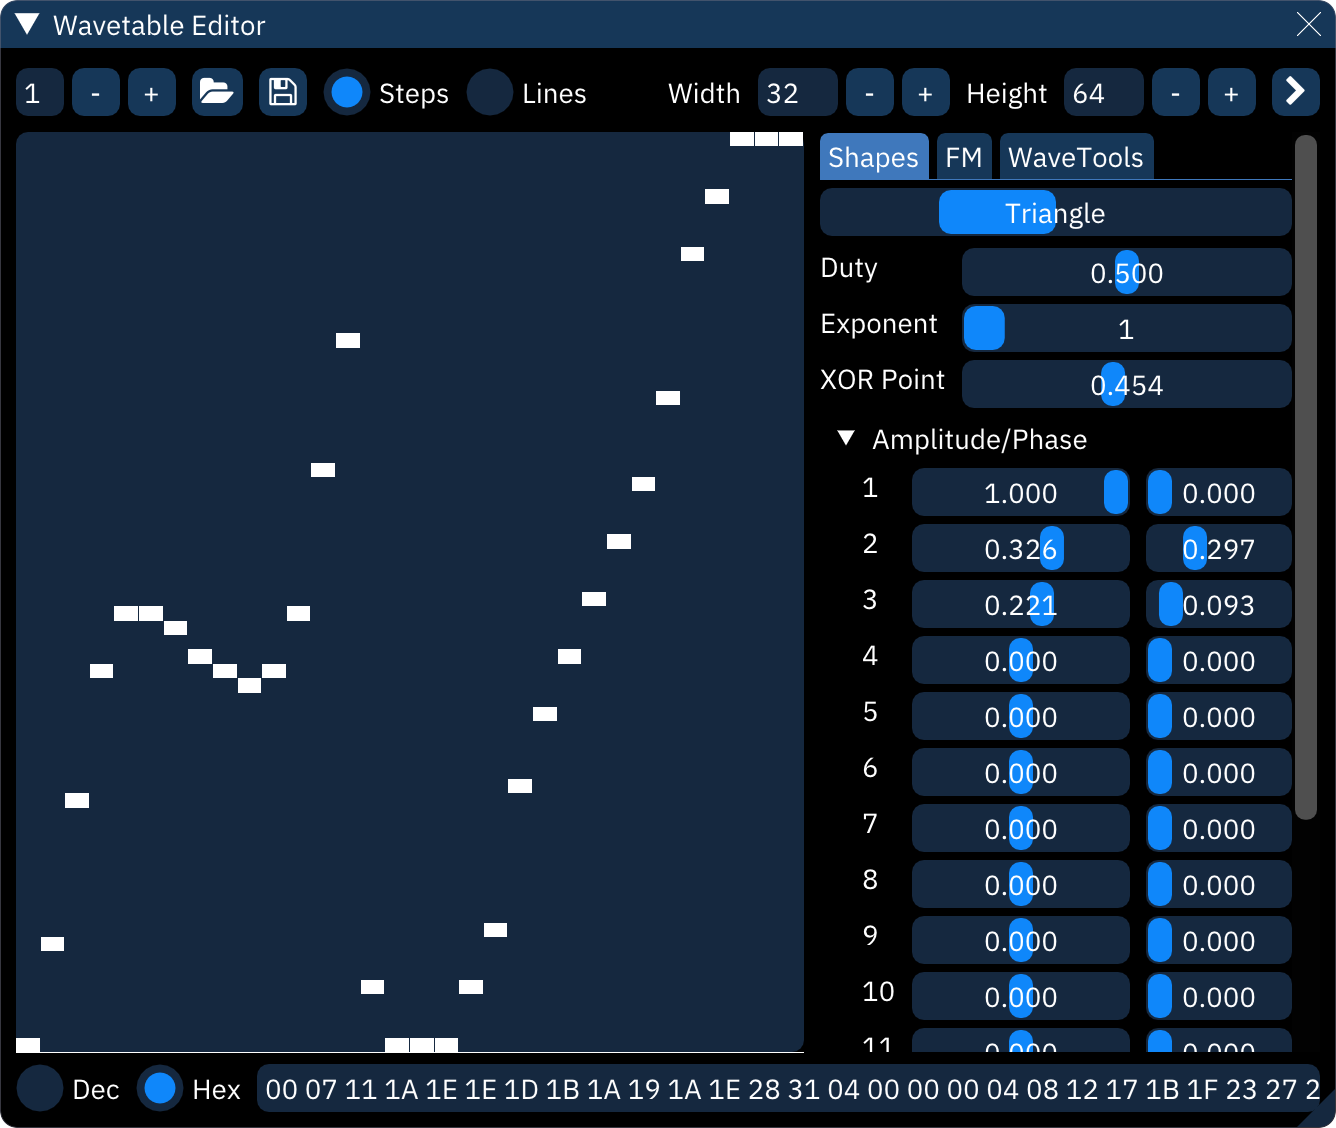
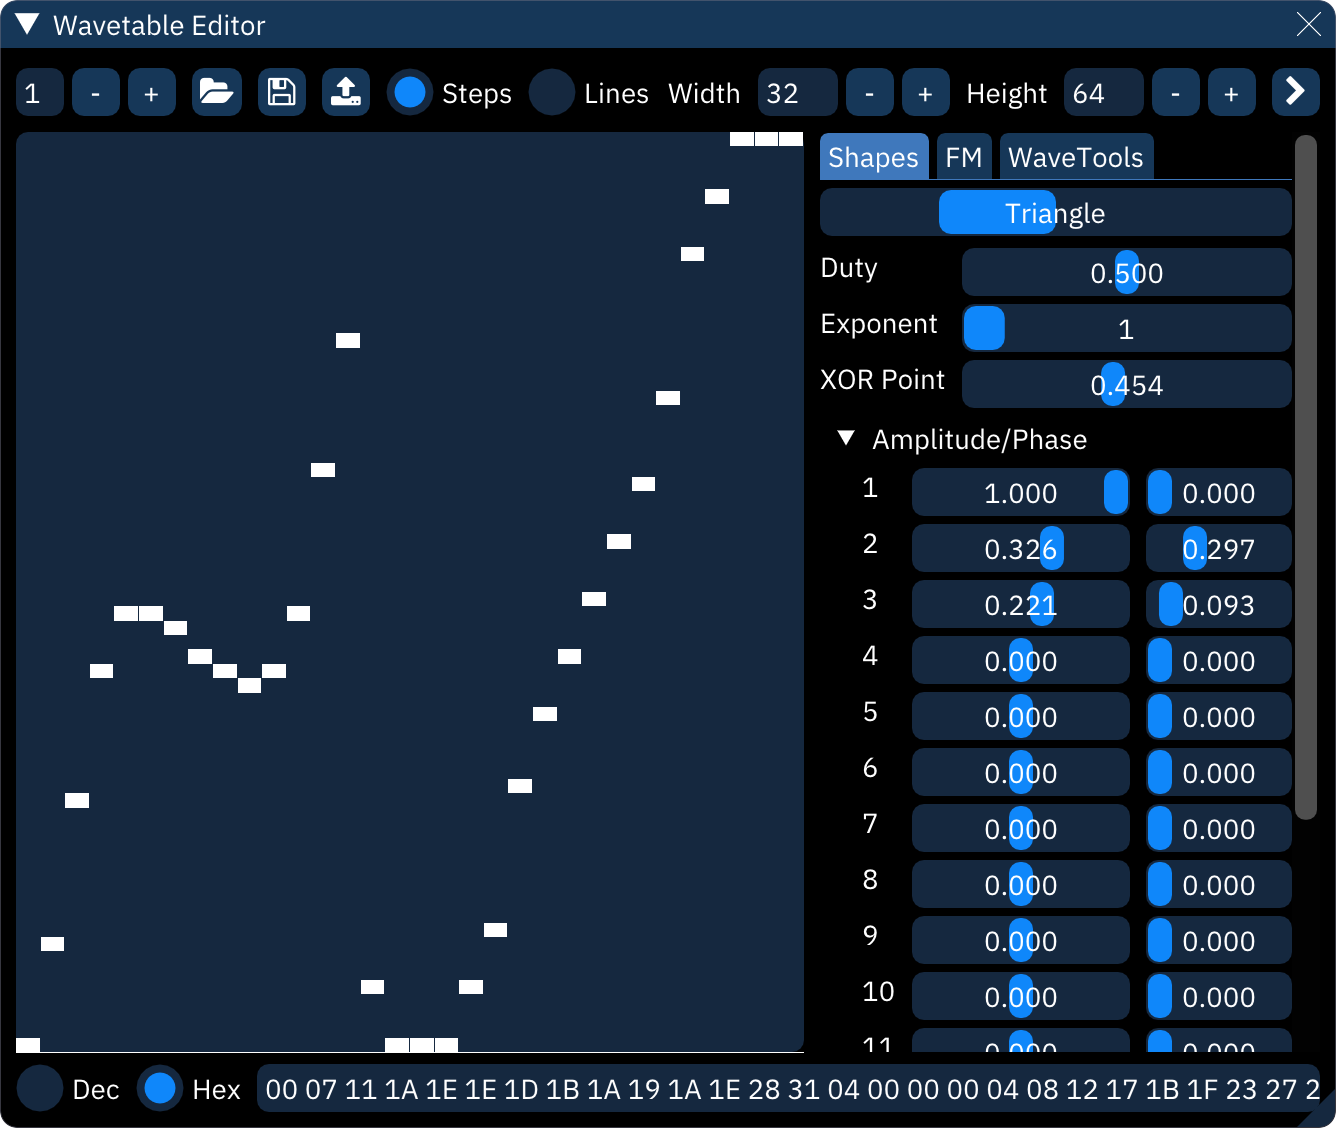
Docs updates.
Several small features and such, including updated graphics as needed.

Changed region(s): [[0.1841, 0.0621, 0.491, 0.1241]]

diff --git a/doc/2-interface/asset-list.md b/doc/2-interface/asset-list.md
@@ -24,6 +24,8 @@ buttons from left to right:
 - **Move down**: same, but downward.
 - **Delete**: deletes the currently selected instrument. pattern data will be adjusted to use the next available instrument in the list.
 
+instruments may be dragged and dropped to reorder them. this will change instrument numbers throughout the module accordingly.
+
 ## folder view
 
 ![instruments window in folder view](instruments-folder.png)
@@ -39,7 +41,7 @@ right-clicking on a folder allows one to rename or delete it. deleting a folder 
 
 ![wavetables window](wavetables.png)
 
-everything from the instrument list applies here also, with one major difference: moving waves around with the buttons will change their associated numbers in the list but **not** in pattern or instrument data. be careful!
+everything from the instrument list applies here also, with one major difference: moving waves around with the buttons or dragging them will change their associated numbers in the list but **not** in pattern or instrument data. be careful!
 
 wavetables are saved as Furnace wavetable (.fuw) files. 
 

diff --git a/doc/5-wave/README.md b/doc/5-wave/README.md
@@ -27,12 +27,13 @@ Amiga         |  ≤256 | 256    |
 ![wavetable editor](wave-editor.png)
 
 controls across the top line:
-- waveform number. the `-` and `+` buttons step through the list.
-- open. opens a file selector to choose the file to open.
-- save. opens a file selector to choose the file to save to.
+- waveform number: the `-` and `+` buttons step through the list.
+- open: opens a file selector to choose the file to open.
+- save: opens a file selector to choose the file to save to.
   - right-clicking brings up a menu:
     - **save as .dmw...**: saves the selected wavetable in DefleMask format.
     - **save raw...**: saves the selected wavetable as raw data.
+- create sample from wavetable: copies wavetable to a new looped sample.
 - **Steps**: view waveform as discrete blocks.
 - **Lines**: view waveform as a continuous line.
 - **Width**: length of the waveform data. maximum is 256.

diff --git a/doc/2-interface/menu-bar.md b/doc/2-interface/menu-bar.md
@@ -64,6 +64,7 @@ the menu bar allows you to select from five menus: file, edit, settings, window 
 - **randomize**: replaces the selection with random values.
   - does not affect the note column.
   - **Nibble mode**: when enabled, the randomization will be per-nibble (0 to F) rather than per-value (00 to FF).
+  - **Set effect:**: only appears when the selection includes an effect column. if enabled, an input box will appear. instead of being randomized, all effect types in the selection will be changed to the value entered.
 - **invert values**: `00` becomes `FF`, `01` becomes `FE`, `02` becomes `FD` and so on.
 - **flip selection**: flips the selection so it is backwards.
 - **collapse/expand amount**: allows you to specify how much to collapse/expand in the next two menu items.

diff --git a/doc/2-interface/settings.md b/doc/2-interface/settings.md
@@ -284,6 +284,7 @@ below all the binds, select a key from the dropdown list to add it. it will appe
 - **Double-click time (seconds)**: maximum time between mouse clicks to recognize them as a double-click.
 - **Don't raise pattern editor on click**
 - **Focus pattern editor when selecting instrument**
+- **Draggable instruments/samples/waves:** allow dragging and dropping assets within their lists to reorder them.
 - **Note preview behavior:** allows you to disable note preview when entering notes in the pattern.
   - **Never**: don't preview notes at all.
   - **When cursor is in Note column**: only when the cursor is in the Note column

diff --git a/README.md b/README.md
@@ -313,7 +313,7 @@ cmake -G Xcode ..
 
 once you've created the build directory with `mkdir`, you don't have to do that again. just `cd` to it when you want to build Furnace.
 
-once you ran CMake successfully, you don't have to run it again every time you make a change. just run `make`, `ninja`, `xcodebuild` or `msbuild`.
+once you've run CMake successfully, you don't have to run it again every time you make a change. just run `make`, `ninja`, `xcodebuild` or `msbuild`.
 
 ## CMake options
 

diff --git a/doc/README.md b/doc/README.md
@@ -36,4 +36,4 @@ you may reproduce, modify and/or distribute this documentation provided this cop
 
 this documentation is provided as-is and without warranty of any kind. 
 
-
+**note:** online documentation may include new features in development or other information that doesn't apply to the most current release. the PDF included with Furnace will be most accurate to that release.

diff --git a/doc/8-advanced/stats.md b/doc/8-advanced/stats.md
@@ -1,5 +1,5 @@
 # statistics
 
-the Statistics window shows audio load (CPU used by emulation/playback).
+the Statistics window shows current audio load (CPU used by emulation/playback) and a chart of audio load over the last two seconds.
 
 ![statistics window](stats.png)
